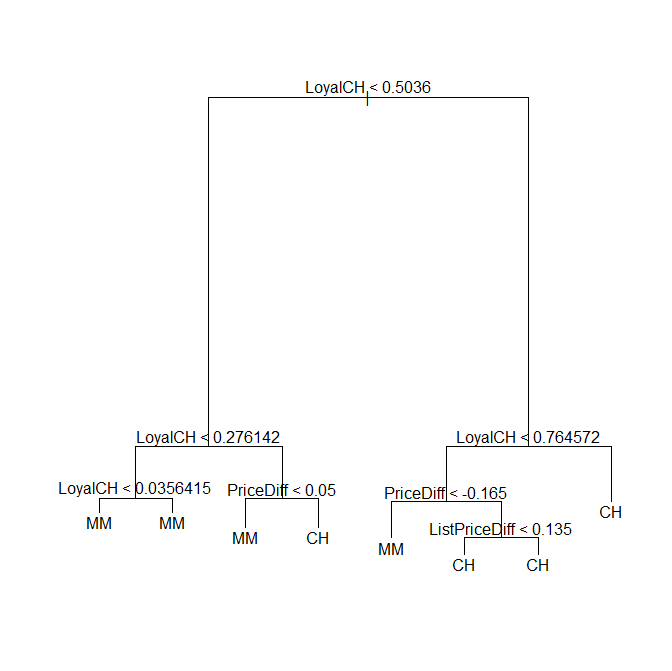
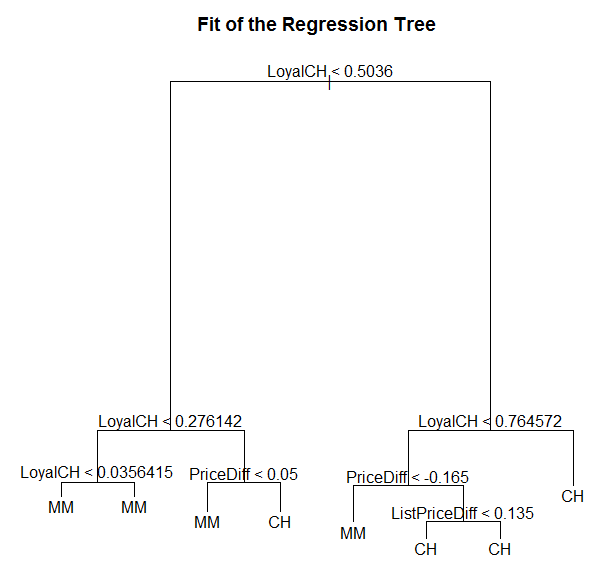
edit plots + readme

diff --git a/Tree Model/README.md b/Tree Model/README.md
@@ -1,7 +1,7 @@
 ## Tree_OJ
 
  ![Tree_OJ1.png](Tree_OJ1.png)
- ![Tree_OJ3.png](Tree_OJ3.png)
+ ![Tree_OJ2.png](Tree_OJ2.png)
  
 ```R
 # clear variables and close windows
